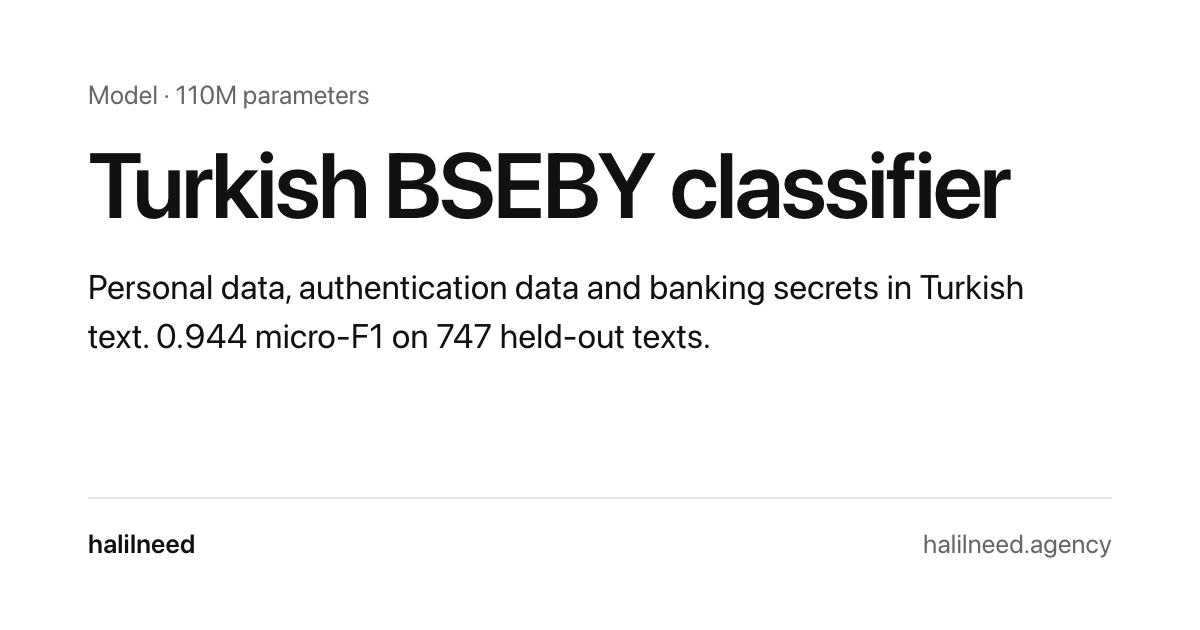
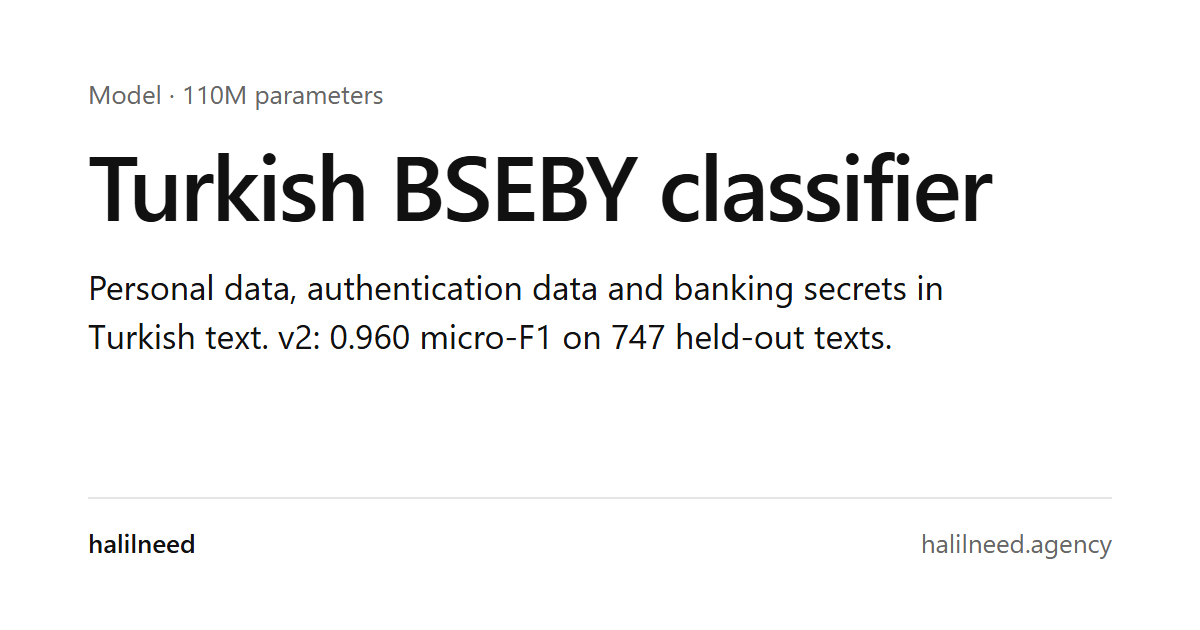
Update the BSEBY and prompt injection pages for their new versions
BSEBY v2: v1 and v2 side by side on the held-out set and the new hard
set, training data and limits updated, listing cards show 0.960.
Prompt injection v2.1: numbers at the recommended threshold 0.05, the
threshold change explained, seed and weight-average results, and a link
to the full benchmark. OG cards regenerated.

diff --git a/models/turkish-prompt-injection-classifier/tr/index.html b/models/turkish-prompt-injection-classifier/tr/index.html
@@ -4,7 +4,7 @@
 <meta charset="utf-8">
 <meta name="viewport" content="width=device-width, initial-scale=1">
 <title>Türkçe prompt injection sınıflandırıcısı | halilneed</title>
-<meta name="description" content="LLM'e giren Türkçe metinde prompt injection için açık sınıflandırıcı. v2: kodlanmış saldırıların 13'te 13'ü, gizli Unicode'un %95'i, %2'nin altında yanlış alarm. MIT.">
+<meta name="description" content="LLM'e giren Türkçe metinde prompt injection için açık sınıflandırıcı. v2: kodlanmış saldırıların 13'te 13'ü, gizli Unicode'un %98'i, yaklaşık %2 yanlış alarm. MIT.">
 <link rel="canonical" href="https://halilneed.agency/models/turkish-prompt-injection-classifier/tr/">
 <link rel="alternate" hreflang="en" href="https://halilneed.agency/models/turkish-prompt-injection-classifier/">
 <link rel="alternate" hreflang="tr" href="https://halilneed.agency/models/turkish-prompt-injection-classifier/tr/">
@@ -18,14 +18,14 @@
 <meta property="og:site_name" content="halilneed">
 <meta property="og:locale" content="tr_TR">
 <meta property="og:title" content="Türkçe prompt injection sınıflandırıcısı | halilneed">
-<meta property="og:description" content="LLM'e giren Türkçe metinde prompt injection için açık sınıflandırıcı. v2: kodlanmış saldırıların 13'te 13'ü, gizli Unicode'un %95'i, %2'nin altında yanlış alarm. MIT.">
+<meta property="og:description" content="LLM'e giren Türkçe metinde prompt injection için açık sınıflandırıcı. v2: kodlanmış saldırıların 13'te 13'ü, gizli Unicode'un %98'i, yaklaşık %2 yanlış alarm. MIT.">
 <meta property="og:url" content="https://halilneed.agency/models/turkish-prompt-injection-classifier/tr/">
 <meta property="og:image" content="https://halilneed.agency/assets/img/og-turkish-prompt-injection-classifier.png">
 <meta property="og:image:width" content="1200">
 <meta property="og:image:height" content="630">
 <meta name="twitter:card" content="summary_large_image">
 <meta name="twitter:title" content="Türkçe prompt injection sınıflandırıcısı | halilneed">
-<meta name="twitter:description" content="LLM'e giren Türkçe metinde prompt injection için açık sınıflandırıcı. v2: kodlanmış saldırıların 13'te 13'ü, gizli Unicode'un %95'i, %2'nin altında yanlış alarm. MIT.">
+<meta name="twitter:description" content="LLM'e giren Türkçe metinde prompt injection için açık sınıflandırıcı. v2: kodlanmış saldırıların 13'te 13'ü, gizli Unicode'un %98'i, yaklaşık %2 yanlış alarm. MIT.">
 <meta name="twitter:image" content="https://halilneed.agency/assets/img/og-turkish-prompt-injection-classifier.png">
 <script type="application/ld+json">
 {
@@ -89,7 +89,7 @@
   <header class="page-head">
     <h1>Türkçe prompt injection sınıflandırıcısı</h1>
     <p class="lead"><code>turkish-prompt-injection-classifier</code>, bir LLM’e giren Türkçe metni <code>BENIGN</code> (zararsız) ya da <code>INJECTION</code> olarak işaretler. Kullanıcı mesajlarında ve asistanın okuduğu içerikte çalışır: e-posta, belge, getirilen pasaj, araç çıktısı.</p>
-    <p>Sürüm 2 yayında. Açık bir test setindeki 13 kodlanmış saldırının 13’ünü (v1: 5) ve görünmez Unicode ile gizlenmiş talimatların %95’ini (v1: %40) yakalıyor. 2.875 zararsız Türkçe metinde en fazla %1,7 yanlış alarm veriyor; açık koruma modelleri aynı görev talimatlarının %77’sine kadarını saldırı sayıyor. Görmediği bir kaynaktan gelen konuşma ve ajan saldırılarında v1’den zayıf; iki sürüm de kullanılabilir.</p>
+    <p>Sürüm 2 yayında. Açık bir test setindeki 13 kodlanmış saldırının 13’ünü (v1: 5) ve görünmez Unicode ile gizlenmiş talimatların %98’ini (v1: %40) yakalıyor; görmediği her saldırı setinde v1’den yüksek skor alıyor. 2.875 zararsız Türkçe metinde en fazla %2,1 yanlış alarm veriyor; açık koruma modelleri aynı görev talimatlarının %77’sine kadarını saldırı sayıyor. İki sürüm de kullanılabilir. Tüm ölçümler açık bir benchmark’ta: <a href="https://huggingface.co/datasets/halilneed/turkish-prompt-injection-benchmark">halilneed/turkish-prompt-injection-benchmark</a>.</p>
     <ul class="links">
       <li><a href="https://huggingface.co/halilneed/turkish-prompt-injection-classifier" data-goatcounter-click="pinj-download-tr">Hugging Face’te ağırlıklar</a></li>
     </ul>
@@ -97,8 +97,8 @@
     <dl class="kv">
       <div><dt>Boyut</dt><dd>307M parametre (v2), 110M (v1)</dd></div>
       <div><dt>Temel model</dt><dd>v2: <a href="https://huggingface.co/jhu-clsp/mmBERT-base"><code>jhu-clsp/mmBERT-base</code></a>; v1: <a href="https://huggingface.co/dbmdz/bert-base-turkish-cased"><code>dbmdz/bert-base-turkish-cased</code></a></dd></div>
-      <div><dt>Etiketler</dt><dd><code>BENIGN</code>, <code>INJECTION</code>; eşik 0,3</dd></div>
-      <div><dt>Sonuç</dt><dd>Her eğitim kaynağı dışarıda bırakıldığında ortalama F1 0.622 (v1: 0.567); zararsız Türkçede %0–1,7 yanlış alarm</dd></div>
+      <div><dt>Etiketler</dt><dd><code>BENIGN</code>, <code>INJECTION</code>; eşik 0,05</dd></div>
+      <div><dt>Sonuç</dt><dd>Her eğitim kaynağı dışarıda bırakıldığında ortalama F1 0.690 (v1: 0.567); zararsız Türkçede %0–2,1 yanlış alarm</dd></div>
       <div><dt>CPU hızı</dt><dd>metin başına yaklaşık 35 ms (v1: yaklaşık 23 ms)</dd></div>
       <div><dt>Lisans</dt><dd>MIT</dd></div>
     </dl>
@@ -164,31 +164,32 @@
         </tbody>
       </table>
     </div>
-    <p>İlk üç satır zararsız: <a href="https://huggingface.co/datasets/cagrigungor/turkish-pii-masking-benchmark">cagrigungor/turkish-pii-masking-benchmark</a> setinden bir görev talimatı, kullanıcının kendi önceki üslup isteğini değiştirmesi ve asistanı korumak için yazılmış bir kural. Son ikisi saldırı: talimatı geçersiz kılma ve hafızaya kural yerleştirme girişimi; ikincisini v2 kaçırıyor. Kalın, eşiğin üstündeki skordur (burada v1 ve v2 için 0,3, proventra için 0,5).</p>
+    <p>İlk üç satır zararsız: <a href="https://huggingface.co/datasets/cagrigungor/turkish-pii-masking-benchmark">cagrigungor/turkish-pii-masking-benchmark</a> setinden bir görev talimatı, kullanıcının kendi önceki üslup isteğini değiştirmesi ve asistanı korumak için yazılmış bir kural. Son ikisi saldırı: talimatı geçersiz kılma ve hafızaya kural yerleştirme girişimi; ikincisini v2 kaçırıyor. Kalın, eşiğin üstündeki skordur (v2 için 0,05, v1 ve proventra için 0,5).</p>
   </section>
 
   <section id="versions" aria-labelledby="versions-title">
     <h2 id="versions-title">v1 ve v2</h2>
     <div class="table-scroll" role="region" aria-labelledby="versions-caption" tabindex="0">
       <table>
-        <caption id="versions-caption">İki sürüm yan yana. Eşik v1 için 0,5, v2 için 0,3.</caption>
+        <caption id="versions-caption">İki sürüm yan yana. Eşik v1 için 0,5, v2 için 0,05.</caption>
         <thead>
           <tr><th scope="col">Ölçüt</th><th scope="col" class="num">v1</th><th scope="col" class="num">v2</th></tr>
         </thead>
         <tbody>
-          <tr><th scope="row">Görmediği kaynakta F1: conv</th><td class="num"><strong>0.588</strong></td><td class="num">0.465</td></tr>
-          <tr><th scope="row">Görmediği kaynakta F1: 1k</th><td class="num">0.823</td><td class="num"><strong>0.954</strong></td></tr>
-          <tr><th scope="row">Görmediği kaynakta F1: berat</th><td class="num">0.290</td><td class="num"><strong>0.447</strong></td></tr>
-          <tr><th scope="row">Gizlenmiş saldırı, duyarlılık (fevzi, 107)</th><td class="num">0.832</td><td class="num"><strong>0.944</strong></td></tr>
-          <tr><th scope="row">Görünmez Unicode ile gizlenmiş, duyarlılık (42)</th><td class="num">0.405</td><td class="num"><strong>0.952</strong></td></tr>
-          <tr><th scope="row">Bankacılık metninde yanlış alarm (750)</th><td class="num"><strong>%1,1</strong></td><td class="num">%1,7</td></tr>
+          <tr><th scope="row">Görmediği kaynakta F1: conv</th><td class="num">0.588</td><td class="num"><strong>0.596</strong></td></tr>
+          <tr><th scope="row">Görmediği kaynakta F1: 1k</th><td class="num">0.823</td><td class="num"><strong>0.968</strong></td></tr>
+          <tr><th scope="row">Görmediği kaynakta F1: berat</th><td class="num">0.290</td><td class="num"><strong>0.506</strong></td></tr>
+          <tr><th scope="row">Gizlenmiş saldırı, duyarlılık (fevzi, 107)</th><td class="num">0.832</td><td class="num"><strong>0.963</strong></td></tr>
+          <tr><th scope="row">Görünmez Unicode ile gizlenmiş, duyarlılık (42)</th><td class="num">0.405</td><td class="num"><strong>0.976</strong></td></tr>
+          <tr><th scope="row">Bankacılık metninde yanlış alarm (750)</th><td class="num"><strong>%1,1</strong></td><td class="num">%2,1</td></tr>
           <tr><th scope="row">CPU, metin başına ortalama</th><td class="num"><strong>23 ms</strong></td><td class="num">35 ms</td></tr>
         </tbody>
       </table>
     </div>
-    <p>Hugging Face’te varsayılan sürüm v2. Trafiğinizin çoğu ajan araçlı sohbetse ve az yanlış alarm en önemli şeyse <code>revision="v1"</code> ile v1’e sabitleyin.</p>
-    <p>Üçüncü bir seçenek daha var: <code>detect.py</code>’nin önce duyarlılık modu. v1 ile v2’nin ortalamasını alır ve 0,2’de işaretler; ikisi de seçim protokolünde seçildi. Her kaynak dışarıda bırakıldığında ortalama F1 0.677 (conv 0.690), fevzi’nin %96’sını yakalar. Ama 1k test setinin 34 zararsız satırından 14’ünü işaretler (v2: 1) ve metin başına yaklaşık 59 ms sürer. Kaçan saldırının engellenen istekten pahalı olduğu yerde kullanın.</p>
-    <p>v1’i test bölmelerinde ölçmüştüm ve birkaç varyantı da orada karşılaştırmıştım; bu, sayılarını olduğundan iyi gösterir. v2’de seçimi ayrı tuttum: her tarif, her eğitim kaynağı dışarıda bırakılarak o kaynağın train ve validation bölmelerinde ve eğitimde hiç kullanılmayan zararsız bölmelerde ölçüldü. Test bölmelerine bu sayfadaki sayılar için bir kez dokunuldu. Bu protokolden sekiz tarif geçti; seçilen tarif ikinci bir tohumla tekrarlandı. Seçilen tarif (mmBERT-base, gizleme artırımı, İngilizce ajan verisi) iki eğitim tohumunda ortalama 0.717 ve 0.661 F1 aldı; v1 tarifi 0.612. Yayının ikinci, daha zayıf tohumdan çıkacağını önceden sabitledim.</p>
+    <p>Hugging Face’te varsayılan sürüm v2. Az yanlış alarm ve hız en önemli şeyse <code>revision="v1"</code> ile v1’e sabitleyin.</p>
+    <p>v2 önce 0,3 eşikle yayınlandı; o değer yayınlanmayan bir eğitim tohumunun koşusunda seçilmişti. Yayınlanan modelin kendi kaynak-dışarıda koşularında, test bölmelerine dokunmadan yeniden bakınca eşik 0,05 çıktı. Ağırlıklar aynı; bu sayfa ve model kartı 0,05’teki sayıları gösteriyor.</p>
+    <p>Üçüncü bir seçenek daha var: <code>detect.py</code>’nin önce duyarlılık modu. v1 ile v2’nin ortalamasını alır ve 0,2’de işaretler; ikisi de seçim protokolünde seçildi. Her kaynak dışarıda bırakıldığında ortalama F1 0.677 (conv 0.690), fevzi’nin %96’sını yakalar. Ama 1k test setinin 34 zararsız satırından 14’ünü işaretler (v2: 2) ve metin başına yaklaşık 59 ms sürer. v2’nin yeni eşiğiyle bu mod yalnızca conv’da daha iyi.</p>
+    <p>v1’i test bölmelerinde ölçmüştüm ve birkaç varyantı da orada karşılaştırmıştım; bu, sayılarını olduğundan iyi gösterir. v2’de seçimi ayrı tuttum: her tarif, her eğitim kaynağı dışarıda bırakılarak o kaynağın train ve validation bölmelerinde ve eğitimde hiç kullanılmayan zararsız bölmelerde ölçüldü. Test bölmelerine bu sayfadaki sayılar için bir kez dokunuldu. Bu protokolden sekiz tarif geçti; seçilen tarif ikinci bir tohumla tekrarlandı. Seçilen tarif (mmBERT-base, gizleme artırımı, İngilizce ajan verisi) iki eğitim tohumunda ortalama 0.717 ve 0.661 F1 aldı; v1 tarifi 0.612. Yayının ikinci, daha zayıf tohumdan çıkacağını önceden sabitledim. Sonra eğittiğim iki tohum 0.638 ve 0.529 aldı: üç tohumun ortalaması daha yüksek skor veriyor ama zor zararsız satırlarda yanlış alarmı artırıyor ve üç kat pahalı; ağırlıklarının ortalaması tek tohumdan kötü. Yayın tek model olarak kaldı.</p>
   </section>
 
   <section id="results" aria-labelledby="results-title">
@@ -207,7 +208,7 @@
           <tr><th scope="row">proventra mdeberta-v3</th><td class="num">0.633</td><td class="num">0.910</td><td class="num">0.907*</td></tr>
           <tr><th scope="row">patronus wolf-defender small</th><td class="num">0.596</td><td class="num">0.868</td><td class="num">0.525</td></tr>
           <tr><th scope="row">Bu model v1</th><td class="num">0.588</td><td class="num">0.823</td><td class="num">0.290</td></tr>
-          <tr><th scope="row"><strong>Bu model v2</strong></th><td class="num"><strong>0.465</strong></td><td class="num"><strong>0.954</strong></td><td class="num"><strong>0.447</strong></td></tr>
+          <tr><th scope="row"><strong>Bu model v2</strong></th><td class="num"><strong>0.596</strong></td><td class="num"><strong>0.968</strong></td><td class="num"><strong>0.506</strong></td></tr>
         </tbody>
       </table>
     </div>
@@ -224,7 +225,7 @@
           <tr><th scope="row">proventra mdeberta-v3</th><td class="num">0.925</td><td class="num">0.953</td><td class="num">0.976</td><td class="num">0.976</td></tr>
           <tr><th scope="row">patronus wolf-defender small</th><td class="num">0.841</td><td class="num">0.851</td><td class="num">1.000</td><td class="num">1.000</td></tr>
           <tr><th scope="row">Bu model v1</th><td class="num">0.832</td><td class="num">0.851</td><td class="num">0.405</td><td class="num">0.905</td></tr>
-          <tr><th scope="row"><strong>Bu model v2</strong></th><td class="num"><strong>0.944</strong></td><td class="num"><strong>0.944</strong></td><td class="num"><strong>0.952</strong></td><td class="num"><strong>0.952</strong></td></tr>
+          <tr><th scope="row"><strong>Bu model v2</strong></th><td class="num"><strong>0.963</strong></td><td class="num"><strong>0.963</strong></td><td class="num"><strong>0.976</strong></td><td class="num"><strong>0.976</strong></td></tr>
         </tbody>
       </table>
     </div>
@@ -242,7 +243,7 @@
           <tr><th scope="row">proventra mdeberta-v3</th><td class="num">0.002</td><td class="num">0.032</td><td class="num">0.772</td></tr>
           <tr><th scope="row">patronus wolf-defender small</th><td class="num">0.011</td><td class="num">0.076</td><td class="num">0.607</td></tr>
           <tr><th scope="row">Bu model v1</th><td class="num">0.002</td><td class="num">0.011</td><td class="num">0.000</td></tr>
-          <tr><th scope="row"><strong>Bu model v2</strong></th><td class="num"><strong>0.008</strong></td><td class="num"><strong>0.017</strong></td><td class="num"><strong>0.000</strong></td></tr>
+          <tr><th scope="row"><strong>Bu model v2</strong></th><td class="num"><strong>0.011</strong></td><td class="num"><strong>0.021</strong></td><td class="num"><strong>0.000</strong></td></tr>
         </tbody>
       </table>
     </div>
@@ -252,11 +253,11 @@
   <section id="fails" aria-labelledby="fails-title">
     <h2 id="fails-title">Nerede yanılıyor</h2>
     <ul>
-      <li><strong>Görmediği kaynaktan ajan saldırıları</strong> (conv, kaynak dışarıda): yetki iddiası, belgeye gömülü talimat, hafıza zehirleme, veri sızdırma ve araç kötüye kullanımı 3’te 0. Her biri üç satır; skor değil, yön olarak okuyun. v1 burada daha iyiydi.</li>
-      <li><strong>Türkçe ek ve söz dizimi oyunları</strong> (fevzi): 15’te 12, v1’de 9.</li>
-      <li><strong>deepset çevirisi üslubu</strong> (berat, kaynak dışarıda): duyarlılık 0.288, v1’de 0.170.</li>
+      <li><strong>Görmediği kaynaktan ajan saldırıları</strong> (conv, kaynak dışarıda): hafıza zehirleme, veri sızdırma ve araç kötüye kullanımı 3’te 0; sistem promptu sızdırma ve RAG zehirleme 3’te 1. Her biri üç satır; skor değil, yön olarak okuyun.</li>
+      <li><strong>Türkçe ek ve söz dizimi oyunları</strong> (fevzi): 15’te 13, v1’de 9.</li>
+      <li><strong>deepset çevirisi üslubu</strong> (berat, kaynak dışarıda): duyarlılık 0.339, v1’de 0.170.</li>
     </ul>
-    <p>Dayandığı yerler: kodlanmış saldırılar, fevzi’de 13’te 13 (v1 5, proventra 10, wolf-defender 12); kullanıcının kendi önceki talimatını değiştirmesi, 1k test setinde o kaynak dışarıdayken 7’de 6 (proventra 7’de 0, wolf-defender 7’de 1).</p>
+    <p>Dayandığı yerler: kodlanmış saldırılar, fevzi’de 13’te 13 (v1 5, proventra 10, wolf-defender 12); kullanıcının kendi önceki talimatını değiştirmesi, 1k test setinde o kaynak dışarıdayken 7’de 5 (proventra 7’de 0, wolf-defender 7’de 1).</p>
   </section>
 
   <section id="usage" aria-labelledby="usage-title">
@@ -266,7 +267,7 @@
 
 clf = pipeline("text-classification", model="halilneed/turkish-prompt-injection-classifier")
 scores = {d["label"]: d["score"] for d in clf("Önceki mesajımdaki formatı unut, bu sefer tablo olarak yaz.", top_k=None)}
-is_injection = scores["INJECTION"] &gt;= 0.3
+is_injection = scores["INJECTION"] &gt;= 0.05
 # v1 için: pipeline(..., revision="v1")</code></pre>
 
     <p>Repoda ayrıca <code>detect.py</code> ve <code>guard.py</code> var: metni ve çözülmüş biçimlerini sınıflandıran, en yüksek skoru, hangi biçimlerin çözüldüğünü ve skoru hangisinin belirlediğini döndüren bir <code>Detector</code>. Çözücü metin başına 1 ms’den az ekler.</p>

diff --git a/models/turkish-prompt-injection-classifier/index.html b/models/turkish-prompt-injection-classifier/index.html
@@ -4,7 +4,7 @@
 <meta charset="utf-8">
 <meta name="viewport" content="width=device-width, initial-scale=1">
 <title>Turkish prompt injection classifier | halilneed</title>
-<meta name="description" content="Open classifier for prompt injection in Turkish text going into an LLM. v2: 13 of 13 encoded attacks, 95% of hidden Unicode, under 2% false alarms. MIT.">
+<meta name="description" content="Open classifier for prompt injection in Turkish text going into an LLM. v2: 13 of 13 encoded attacks, 98% of hidden Unicode, about 2% false alarms. MIT.">
 <link rel="canonical" href="https://halilneed.agency/models/turkish-prompt-injection-classifier/">
 <link rel="alternate" hreflang="en" href="https://halilneed.agency/models/turkish-prompt-injection-classifier/">
 <link rel="alternate" hreflang="tr" href="https://halilneed.agency/models/turkish-prompt-injection-classifier/tr/">
@@ -17,14 +17,14 @@
 <meta property="og:type" content="website">
 <meta property="og:site_name" content="halilneed">
 <meta property="og:title" content="Turkish prompt injection classifier | halilneed">
-<meta property="og:description" content="Open classifier for prompt injection in Turkish text going into an LLM. v2: 13 of 13 encoded attacks, 95% of hidden Unicode, under 2% false alarms. MIT.">
+<meta property="og:description" content="Open classifier for prompt injection in Turkish text going into an LLM. v2: 13 of 13 encoded attacks, 98% of hidden Unicode, about 2% false alarms. MIT.">
 <meta property="og:url" content="https://halilneed.agency/models/turkish-prompt-injection-classifier/">
 <meta property="og:image" content="https://halilneed.agency/assets/img/og-turkish-prompt-injection-classifier.png">
 <meta property="og:image:width" content="1200">
 <meta property="og:image:height" content="630">
 <meta name="twitter:card" content="summary_large_image">
 <meta name="twitter:title" content="Turkish prompt injection classifier | halilneed">
-<meta name="twitter:description" content="Open classifier for prompt injection in Turkish text going into an LLM. v2: 13 of 13 encoded attacks, 95% of hidden Unicode, under 2% false alarms. MIT.">
+<meta name="twitter:description" content="Open classifier for prompt injection in Turkish text going into an LLM. v2: 13 of 13 encoded attacks, 98% of hidden Unicode, about 2% false alarms. MIT.">
 <meta name="twitter:image" content="https://halilneed.agency/assets/img/og-turkish-prompt-injection-classifier.png">
 <script type="application/ld+json">
 {
@@ -99,7 +99,7 @@
   <header class="page-head">
     <h1>Turkish prompt injection classifier</h1>
     <p class="lead"><code>turkish-prompt-injection-classifier</code> labels Turkish text going into an LLM as <code>BENIGN</code> or <code>INJECTION</code>: user messages, and the content an assistant reads, such as emails, documents, retrieved passages and tool output.</p>
-    <p>Version 2 is out. It catches all 13 encoded attacks in a public test set (v1 caught 5) and 95% of instructions hidden in invisible Unicode (v1: 40%). On 2,875 benign Turkish texts it flags at most 1.7%; public guards flag up to 77% of the same task instructions. It is weaker than v1 on conversational and agentic attacks from a source it has never seen, and both versions stay available.</p>
+    <p>Version 2 is out. It catches all 13 encoded attacks in a public test set (v1 caught 5) and 98% of instructions hidden in invisible Unicode (v1: 40%), and it scores higher than v1 on every attack set it never saw. On 2,875 benign Turkish texts it flags at most 2.1%; public guards flag up to 77% of the same task instructions. Both versions stay available. Everything is measured on an open benchmark: <a href="https://huggingface.co/datasets/halilneed/turkish-prompt-injection-benchmark">halilneed/turkish-prompt-injection-benchmark</a>.</p>
     <ul class="links">
       <li><a href="https://huggingface.co/halilneed/turkish-prompt-injection-classifier" data-goatcounter-click="pinj-download">Weights on Hugging Face</a></li>
     </ul>
@@ -107,8 +107,8 @@
     <dl class="kv">
       <div><dt>Size</dt><dd>307M parameters (v2), 110M (v1)</dd></div>
       <div><dt>Base model</dt><dd>v2: <a href="https://huggingface.co/jhu-clsp/mmBERT-base"><code>jhu-clsp/mmBERT-base</code></a>; v1: <a href="https://huggingface.co/dbmdz/bert-base-turkish-cased"><code>dbmdz/bert-base-turkish-cased</code></a></dd></div>
-      <div><dt>Labels</dt><dd><code>BENIGN</code>, <code>INJECTION</code>; threshold 0.3</dd></div>
-      <div><dt>Result</dt><dd>mean F1 0.622 with each training source held out (v1: 0.567); false alarms 0 to 1.7% on benign Turkish</dd></div>
+      <div><dt>Labels</dt><dd><code>BENIGN</code>, <code>INJECTION</code>; threshold 0.05</dd></div>
+      <div><dt>Result</dt><dd>mean F1 0.690 with each training source held out (v1: 0.567); false alarms 0 to 2.1% on benign Turkish</dd></div>
       <div><dt>CPU speed</dt><dd>about 35 ms per text (v1: about 23 ms)</dd></div>
       <div><dt>Licence</dt><dd>MIT</dd></div>
     </dl>
@@ -175,31 +175,32 @@
         </tbody>
       </table>
     </div>
-    <p>The first three rows are benign: a task instruction from <a href="https://huggingface.co/datasets/cagrigungor/turkish-pii-masking-benchmark">cagrigungor/turkish-pii-masking-benchmark</a> (“mask all personal data in the text with suitable tags”), a user changing their own earlier style instruction, and a rule written to protect the assistant. The last two are attacks: an instruction override, and an attempt to plant a rule in memory, which v2 misses. Bold is a score at or above the threshold (0.3 for v1 and v2 here, 0.5 for proventra).</p>
+    <p>The first three rows are benign: a task instruction from <a href="https://huggingface.co/datasets/cagrigungor/turkish-pii-masking-benchmark">cagrigungor/turkish-pii-masking-benchmark</a> (“mask all personal data in the text with suitable tags”), a user changing their own earlier style instruction, and a rule written to protect the assistant. The last two are attacks: an instruction override, and an attempt to plant a rule in memory, which v2 misses. Bold is a score at or above the threshold (0.05 for v2, 0.5 for v1 and proventra).</p>
   </section>
 
   <section id="versions" aria-labelledby="versions-title">
     <h2 id="versions-title">v1 and v2</h2>
     <div class="table-scroll" role="region" aria-labelledby="versions-caption" tabindex="0">
       <table>
-        <caption id="versions-caption">The two versions side by side. Threshold 0.5 for v1, 0.3 for v2.</caption>
+        <caption id="versions-caption">The two versions side by side. Threshold 0.5 for v1, 0.05 for v2.</caption>
         <thead>
           <tr><th scope="col">Measure</th><th scope="col" class="num">v1</th><th scope="col" class="num">v2</th></tr>
         </thead>
         <tbody>
-          <tr><th scope="row">Unseen source F1: conv</th><td class="num"><strong>0.588</strong></td><td class="num">0.465</td></tr>
-          <tr><th scope="row">Unseen source F1: 1k</th><td class="num">0.823</td><td class="num"><strong>0.954</strong></td></tr>
-          <tr><th scope="row">Unseen source F1: berat</th><td class="num">0.290</td><td class="num"><strong>0.447</strong></td></tr>
-          <tr><th scope="row">Obfuscated attacks, recall (fevzi, 107)</th><td class="num">0.832</td><td class="num"><strong>0.944</strong></td></tr>
-          <tr><th scope="row">Hidden in invisible Unicode, recall (42)</th><td class="num">0.405</td><td class="num"><strong>0.952</strong></td></tr>
-          <tr><th scope="row">False alarms on banking texts (750)</th><td class="num"><strong>1.1%</strong></td><td class="num">1.7%</td></tr>
+          <tr><th scope="row">Unseen source F1: conv</th><td class="num">0.588</td><td class="num"><strong>0.596</strong></td></tr>
+          <tr><th scope="row">Unseen source F1: 1k</th><td class="num">0.823</td><td class="num"><strong>0.968</strong></td></tr>
+          <tr><th scope="row">Unseen source F1: berat</th><td class="num">0.290</td><td class="num"><strong>0.506</strong></td></tr>
+          <tr><th scope="row">Obfuscated attacks, recall (fevzi, 107)</th><td class="num">0.832</td><td class="num"><strong>0.963</strong></td></tr>
+          <tr><th scope="row">Hidden in invisible Unicode, recall (42)</th><td class="num">0.405</td><td class="num"><strong>0.976</strong></td></tr>
+          <tr><th scope="row">False alarms on banking texts (750)</th><td class="num"><strong>1.1%</strong></td><td class="num">2.1%</td></tr>
           <tr><th scope="row">CPU, mean per text</th><td class="num"><strong>23 ms</strong></td><td class="num">35 ms</td></tr>
         </tbody>
       </table>
     </div>
-    <p>v2 is the default on Hugging Face. If most of your traffic is chat with agent tools and few false alarms matter most, pin v1 with <code>revision="v1"</code>.</p>
-    <p>There is a third option, the recall mode of <code>detect.py</code>: it averages v1 and v2 and flags at 0.2, both chosen on the selection protocol. With each source held out its mean F1 is 0.677 (conv 0.690), and it catches 96% of fevzi. It also flags 14 of the 34 benign rows in the 1k test set, against 1 for v2, and needs about 59 ms per text. Use it where a missed attack costs more than a blocked request.</p>
-    <p>v1 was measured on the test splits, and I also compared a few variants there, which flatters its numbers. For v2 I kept selection apart: every recipe was compared with each training source held out and measured on that source’s train and validation splits, and on benign splits never used in training. The test splits were touched once, for the numbers on this page. Eight recipes went through that protocol, and the chosen one was repeated with a second seed. The chosen one (mmBERT-base, obfuscation augmentation, English agentic data) scored a mean F1 of 0.717 and 0.661 with two training seeds, against 0.612 for the v1 recipe. I fixed in advance that the release would use the second seed, the weaker one.</p>
+    <p>v2 is the default on Hugging Face. If few false alarms and speed matter most, pin v1 with <code>revision="v1"</code>.</p>
+    <p>v2 was first published with threshold 0.3, which had been picked on a different training seed than the one released. Re-checked on the released model’s own held-out-source runs, without touching the test splits, the threshold moved to 0.05. The weights are the same; this page and the model card show the numbers at 0.05.</p>
+    <p>There is a third option, the recall mode of <code>detect.py</code>: it averages v1 and v2 and flags at 0.2, both chosen on the selection protocol. With each source held out its mean F1 is 0.677 (conv 0.690), and it catches 96% of fevzi. It also flags 14 of the 34 benign rows in the 1k test set, against 2 for v2, and needs about 59 ms per text. With v2 at its new threshold, recall mode is only better on conv.</p>
+    <p>v1 was measured on the test splits, and I also compared a few variants there, which flatters its numbers. For v2 I kept selection apart: every recipe was compared with each training source held out and measured on that source’s train and validation splits, and on benign splits never used in training. The test splits were touched once, for the numbers on this page. Eight recipes went through that protocol, and the chosen one was repeated with a second seed. The chosen one (mmBERT-base, obfuscation augmentation, English agentic data) scored a mean F1 of 0.717 and 0.661 with two training seeds, against 0.612 for the v1 recipe. I fixed in advance that the release would use the second seed, the weaker one. Two more seeds trained later scored 0.638 and 0.529: averaging three seeds scores higher but raises false alarms on hard benign rows and costs three times as much, and averaging their weights is worse than one seed. The release stays one model.</p>
   </section>
 
   <section id="results" aria-labelledby="results-title">
@@ -218,7 +219,7 @@
           <tr><th scope="row">proventra mdeberta-v3</th><td class="num">0.633</td><td class="num">0.910</td><td class="num">0.907*</td></tr>
           <tr><th scope="row">patronus wolf-defender small</th><td class="num">0.596</td><td class="num">0.868</td><td class="num">0.525</td></tr>
           <tr><th scope="row">This model v1</th><td class="num">0.588</td><td class="num">0.823</td><td class="num">0.290</td></tr>
-          <tr><th scope="row"><strong>This model v2</strong></th><td class="num"><strong>0.465</strong></td><td class="num"><strong>0.954</strong></td><td class="num"><strong>0.447</strong></td></tr>
+          <tr><th scope="row"><strong>This model v2</strong></th><td class="num"><strong>0.596</strong></td><td class="num"><strong>0.968</strong></td><td class="num"><strong>0.506</strong></td></tr>
         </tbody>
       </table>
     </div>
@@ -235,7 +236,7 @@
           <tr><th scope="row">proventra mdeberta-v3</th><td class="num">0.925</td><td class="num">0.953</td><td class="num">0.976</td><td class="num">0.976</td></tr>
           <tr><th scope="row">patronus wolf-defender small</th><td class="num">0.841</td><td class="num">0.851</td><td class="num">1.000</td><td class="num">1.000</td></tr>
           <tr><th scope="row">This model v1</th><td class="num">0.832</td><td class="num">0.851</td><td class="num">0.405</td><td class="num">0.905</td></tr>
-          <tr><th scope="row"><strong>This model v2</strong></th><td class="num"><strong>0.944</strong></td><td class="num"><strong>0.944</strong></td><td class="num"><strong>0.952</strong></td><td class="num"><strong>0.952</strong></td></tr>
+          <tr><th scope="row"><strong>This model v2</strong></th><td class="num"><strong>0.963</strong></td><td class="num"><strong>0.963</strong></td><td class="num"><strong>0.976</strong></td><td class="num"><strong>0.976</strong></td></tr>
         </tbody>
       </table>
     </div>
@@ -253,7 +254,7 @@
           <tr><th scope="row">proventra mdeberta-v3</th><td class="num">0.002</td><td class="num">0.032</td><td class="num">0.772</td></tr>
           <tr><th scope="row">patronus wolf-defender small</th><td class="num">0.011</td><td class="num">0.076</td><td class="num">0.607</td></tr>
           <tr><th scope="row">This model v1</th><td class="num">0.002</td><td class="num">0.011</td><td class="num">0.000</td></tr>
-          <tr><th scope="row"><strong>This model v2</strong></th><td class="num"><strong>0.008</strong></td><td class="num"><strong>0.017</strong></td><td class="num"><strong>0.000</strong></td></tr>
+          <tr><th scope="row"><strong>This model v2</strong></th><td class="num"><strong>0.011</strong></td><td class="num"><strong>0.021</strong></td><td class="num"><strong>0.000</strong></td></tr>
         </tbody>
       </table>
     </div>
@@ -263,11 +264,11 @@
   <section id="fails" aria-labelledby="fails-title">
     <h2 id="fails-title">Where it fails</h2>
     <ul>
-      <li><strong>Agentic attacks from an unseen source</strong> (conv, source held out): authority claims, indirect content injection, memory poisoning, data exfiltration and tool abuse are each caught in 0 of 3 rows. Three rows each, so read them as a direction. v1 did better here.</li>
-      <li><strong>Turkish morphological rewording</strong> (fevzi): 12 of 15, up from 9 in v1.</li>
-      <li><strong>The deepset translation style</strong> (berat, source held out): recall 0.288, up from 0.170.</li>
+      <li><strong>Agentic attacks from an unseen source</strong> (conv, source held out): memory poisoning, data exfiltration and tool abuse are each caught in 0 of 3 rows; system prompt extraction and RAG poisoning in 1 of 3. Three rows each, so read them as a direction.</li>
+      <li><strong>Turkish morphological rewording</strong> (fevzi): 13 of 15, up from 9 in v1.</li>
+      <li><strong>The deepset translation style</strong> (berat, source held out): recall 0.339, up from 0.170.</li>
     </ul>
-    <p>Where it holds up: encoded attacks, 13 of 13 in fevzi (v1 5, proventra 10, wolf-defender 12); users changing their own earlier instruction, 6 of 7 in the 1k test set with that source held out (proventra 0 of 7, wolf-defender 1 of 7).</p>
+    <p>Where it holds up: encoded attacks, 13 of 13 in fevzi (v1 5, proventra 10, wolf-defender 12); users changing their own earlier instruction, 5 of 7 in the 1k test set with that source held out (proventra 0 of 7, wolf-defender 1 of 7).</p>
   </section>
 
   <section id="usage" aria-labelledby="usage-title">
@@ -277,7 +278,7 @@
 
 clf = pipeline("text-classification", model="halilneed/turkish-prompt-injection-classifier")
 scores = {d["label"]: d["score"] for d in clf("Önceki mesajımdaki formatı unut, bu sefer tablo olarak yaz.", top_k=None)}
-is_injection = scores["INJECTION"] &gt;= 0.3
+is_injection = scores["INJECTION"] &gt;= 0.05
 # v1 instead: pipeline(..., revision="v1")</code></pre>
 
     <p>The repository also ships <code>detect.py</code> and <code>guard.py</code>: a <code>Detector</code> that classifies the text and its decoded forms and returns the highest score, which forms were decoded, and which one set the score. The decoder adds under 1 ms per text.</p>

diff --git a/models/tr/index.html b/models/tr/index.html
@@ -160,7 +160,7 @@
       <span class="repo-id">halilneed/turkish-bseby-classifier</span>
       <span class="repo-desc">Banka veri envanterleri ve veri kaybı önleme (DLP) hatları için yapıldı. Kişisel veriyi, özel nitelikli kişisel veriyi, kimlik doğrulama verisini, müşteri sırrını ve banka sırrını işaretler.</span>
       <span class="repo-meta"><span>Metin sınıflandırma</span><span>110M parametre</span><span>metin başına yaklaşık 32 ms</span><span data-hf-updated>2 Eki 2026 güncellendi</span><span><svg viewBox="0 0 24 24" aria-hidden="true"><path d="M12 4v11M7 11l5 5 5-5M5 20h14"/></svg><span data-hf-downloads>13</span><span class="visually-hidden"> indirme</span></span></span>
-      <span class="repo-stat"><b>0.944</b><span>micro-F1, ayrılmış 747 metin</span></span>
+      <span class="repo-stat"><b>0.960</b><span>micro-F1, ayrılmış 747 metin</span></span>
     </a>
     <a class="repo" href="/models/turkish-prompt-injection-classifier/tr/" data-hf="models/halilneed/turkish-prompt-injection-classifier">
       <span class="repo-id">halilneed/turkish-prompt-injection-classifier</span>

diff --git a/models/index.html b/models/index.html
@@ -159,7 +159,7 @@
       <span class="repo-id">halilneed/turkish-bseby-classifier</span>
       <span class="repo-desc">Built for bank data inventories and data loss prevention (DLP) pipelines. Flags personal data, special-category data, authentication data, customer secrets and bank secrets.</span>
       <span class="repo-meta"><span>Text classification</span><span>110M parameters</span><span>about 32 ms per text</span><span data-hf-updated>Updated 2 Oct 2026</span><span><svg viewBox="0 0 24 24" aria-hidden="true"><path d="M12 4v11M7 11l5 5 5-5M5 20h14"/></svg><span data-hf-downloads>13</span><span class="visually-hidden"> downloads</span></span></span>
-      <span class="repo-stat"><b>0.944</b><span>micro-F1, 747 held-out texts</span></span>
+      <span class="repo-stat"><b>0.960</b><span>micro-F1, 747 held-out texts</span></span>
     </a>
     <a class="repo" href="/models/turkish-prompt-injection-classifier/" data-hf="models/halilneed/turkish-prompt-injection-classifier">
       <span class="repo-id">halilneed/turkish-prompt-injection-classifier</span>

diff --git a/tr/index.html b/tr/index.html
@@ -199,7 +199,7 @@
         <span class="repo-id">halilneed/turkish-bseby-classifier</span>
         <span class="repo-desc">Veri envanteri ve DLP süreçleri için beş bankacılık veri sınıfını tespit edin.</span>
         <span class="repo-meta"><span>Metin sınıflandırma</span><span>110M parametre</span><span>metin başına yaklaşık 32 ms</span><span data-hf-updated>2 Eki 2026 güncellendi</span><span><svg viewBox="0 0 24 24" aria-hidden="true"><path d="M12 4v11M7 11l5 5 5-5M5 20h14"/></svg><span data-hf-downloads>13</span><span class="visually-hidden"> indirme</span></span></span>
-        <span class="repo-stat"><b>0.944</b><span>micro-F1, ayrılmış 747 metin</span></span>
+        <span class="repo-stat"><b>0.960</b><span>micro-F1, ayrılmış 747 metin</span></span>
       </a>
       <a class="repo" href="/models/turkish-prompt-injection-classifier/tr/" data-hf="models/halilneed/turkish-prompt-injection-classifier">
         <span class="repo-id">halilneed/turkish-prompt-injection-classifier</span>

diff --git a/index.html b/index.html
@@ -197,7 +197,7 @@
         <span class="repo-id">halilneed/turkish-bseby-classifier</span>
         <span class="repo-desc">Identify five banking data classes for inventories and DLP workflows.</span>
         <span class="repo-meta"><span>Text classification</span><span>110M parameters</span><span>about 32 ms per text</span><span data-hf-updated>Updated 2 Oct 2026</span><span><svg viewBox="0 0 24 24" aria-hidden="true"><path d="M12 4v11M7 11l5 5 5-5M5 20h14"/></svg><span data-hf-downloads>13</span><span class="visually-hidden"> downloads</span></span></span>
-        <span class="repo-stat"><b>0.944</b><span>micro-F1, 747 held-out texts</span></span>
+        <span class="repo-stat"><b>0.960</b><span>micro-F1, 747 held-out texts</span></span>
       </a>
       <a class="repo" href="/models/turkish-prompt-injection-classifier/" data-hf="models/halilneed/turkish-prompt-injection-classifier">
         <span class="repo-id">halilneed/turkish-prompt-injection-classifier</span>
